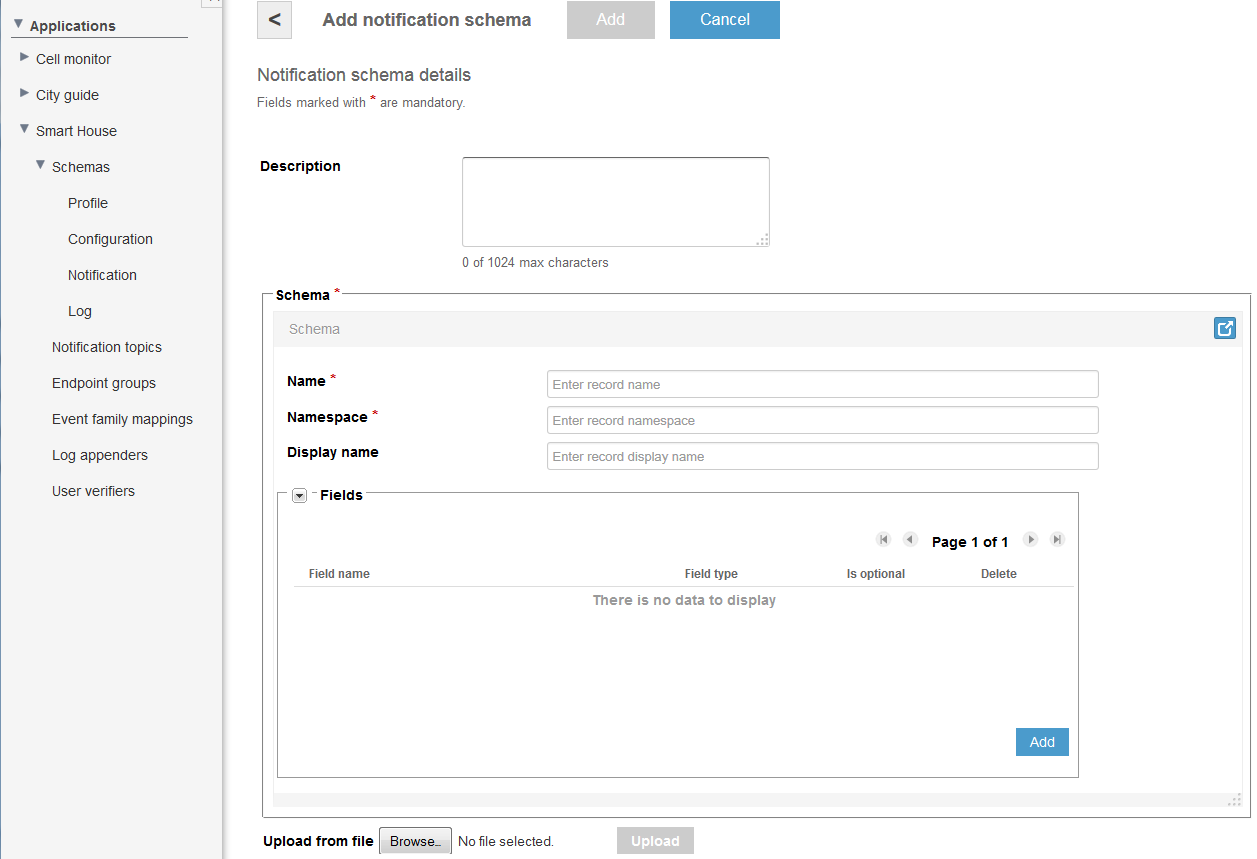
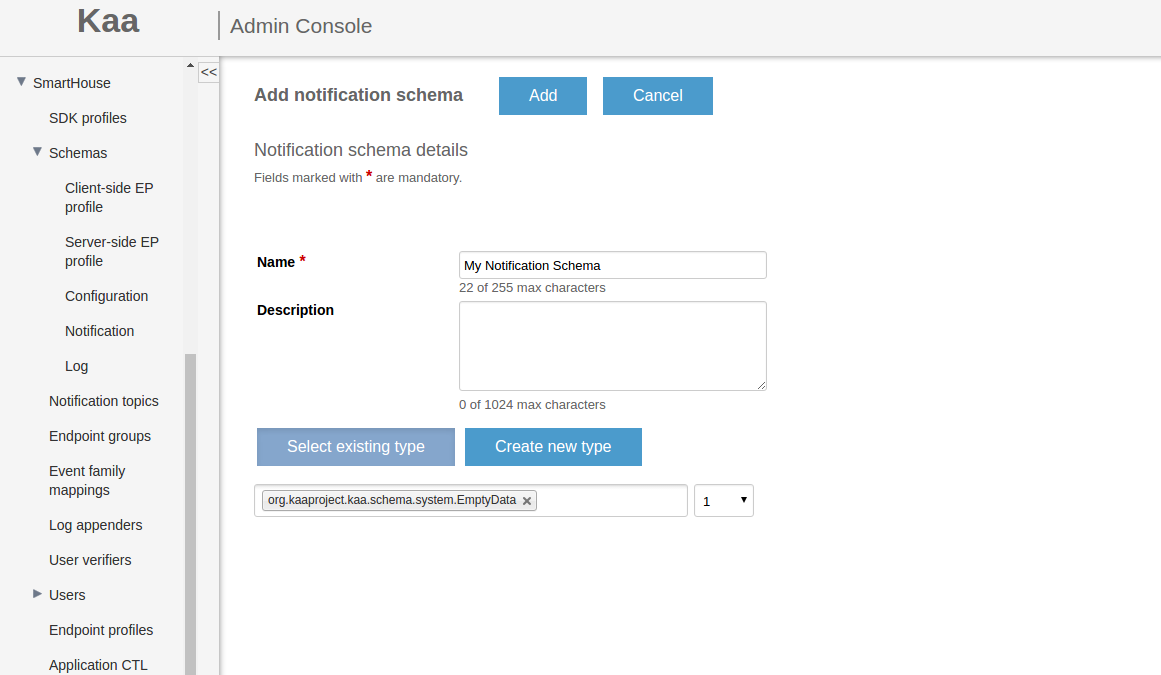
CTL update of notifications

diff --git a/doc/Programming-guide/Key-platform-features/Notifications/index.md b/doc/Programming-guide/Key-platform-features/Notifications/index.md
@@ -52,24 +52,38 @@ The default notification schema installed for Kaa applications is empty. For the
 }
 ```
 
-You can configure your own notification schema via [REST API]({{root_url}}Programming-guide/Server-REST-APIs/#!/Notifications/saveNotificationSchema) call or use Administration UI as shown below. 
 
+For creating your own notification schema via REST API first of all you need to [create new CT schema]({{root_url}}Programming-guide/Server-REST-APIs/#!/Common_Type_Library/saveCTLSchemaWithAppToken)
+after that [create notification schema]({{root_url}}Programming-guide/Server-REST-APIs/#!/Notifications/saveNotificationSchema) which contains a reference to the created before CT or use Administration UI as shown below.
 
 The list of notification schemas created by a tenant developer for the application is shown in the **Notification schemas** window.
 
 ![Add Notification Schema 1](images/add_notification_schema_1.png)
 
+To export the notification schema, click **Export** in the last column of desired schema row and select export method from drop-down. 
+See [CT schema export support]({{root_url}}Programming-guide/Key-platform-features/Common-Type-Library/#ct-schema-export-support) for available export methods details.
+
 As a tenant developer, you can create new notification schemas for the application as follows:
 
 1. In the **Notification schemas** window for the application, click **Add schema**.
-2. In the **Add notification schema** window, create a notification schema either by using the [schema form]({{root_url}}Administration-guide/Tenants-and-applications-management/#schema-form) or by uploading a schema in the [Avro](http://avro.apache.org/docs/current/spec.html) format from a file.
+2. In the **Add notification schema** window enter the name of the schema.
+3. Then create a schema using one of the two options:
 
-![Add Notification Schema 2](images/add_notification_schema_2.png)
-3. Click **Add** to save the schema.
+    1. Using the existing CT by clicking **Select existing type** and selecting exiting CT version from FQN and version drop-downs.
+    
+        ![Add Notification Schema 2](images/add_notification_schema_2.png)
+    
+    2. Create new CT by clicking **Create new type**. In this case you will be redirected to **Add new type** window. Here you can create a schema either by using the 
+    schema form or by uploading a schema in the [Avro](http://avro.apache.org/docs/current/spec.html) format from a file.
+    
+        ![Add Notification Schema 2](images/add_notification_schema_3.png)
+
+4. Click **Add** at the top of the window to save the schema.
 
 If you want to review the added Avro schema, open the corresponding **Notification schema** window by clicking the schema in the **Notification schemas** window.
 
-![Add Notification Schema 3](images/add_notification_schema_3.png)
+![Add Notification Schema 3](images/add_notification_schema_4.png)
+   
 
 #### Notification topics
 
